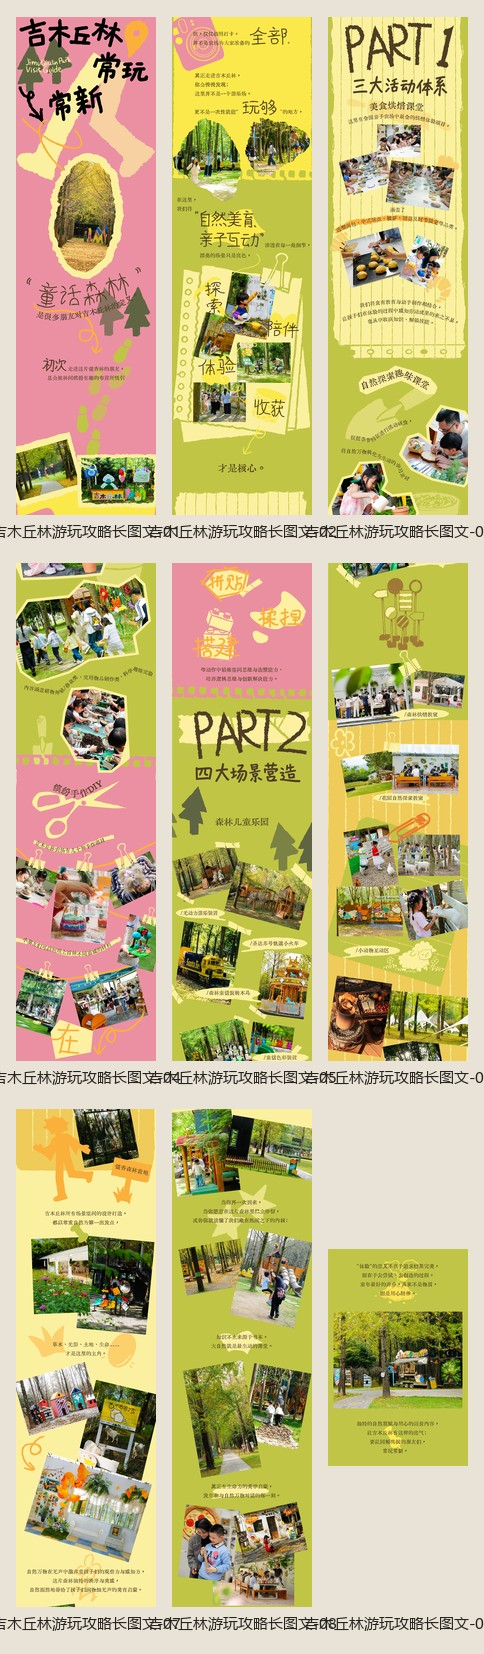
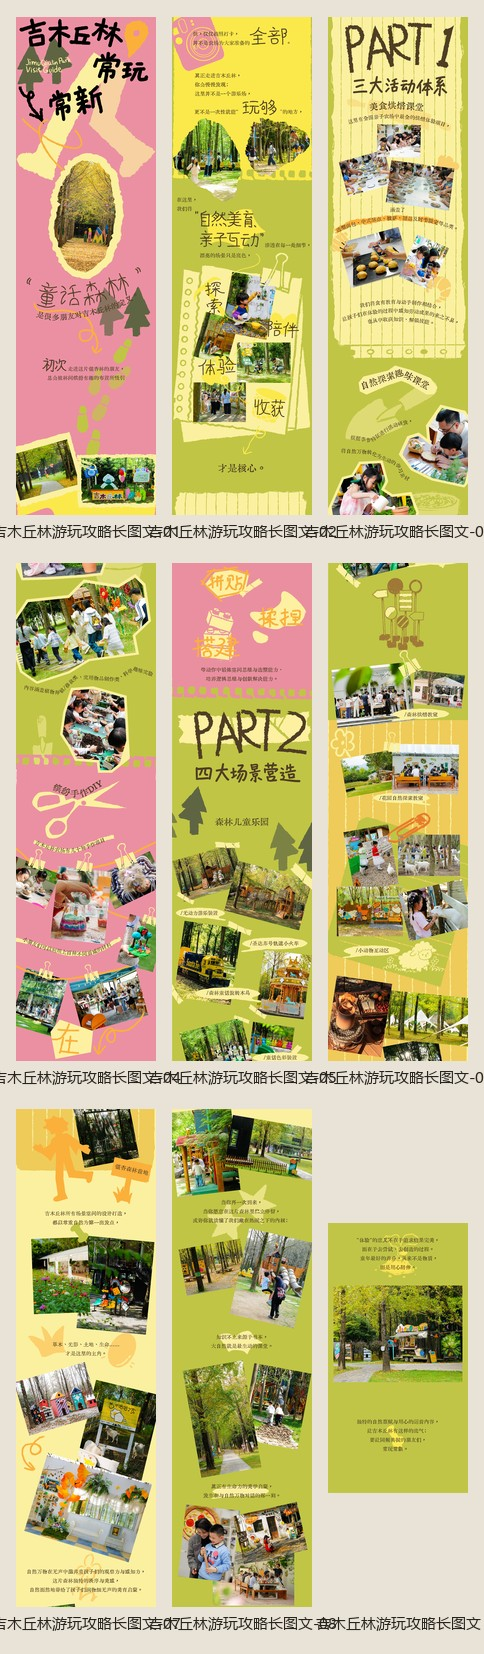
Replace final play guide page

Changed region(s): [[0.6818, 0.74, 0.9917, 0.925], [0.6508, 0.9559, 1.0, 0.9867]]

diff --git a/index.html b/index.html
@@ -34,13 +34,13 @@
   <header>
     <div class="brand"><strong>吉木丘林 · 游玩攻略</strong><span>9 张连续长图 · 建议上下滑动阅读</span></div>
     <div class="actions">
-      <a href="./assets/guide-long-web.jpg?v=20261113-160414" target="_blank" rel="noopener">查看长图</a>
-      <a href="./assets/guide-long-web.jpg?v=20261113-160414" download>下载长图</a>
+      <a href="./assets/guide-long-web.jpg?v=20261113-161114" target="_blank" rel="noopener">查看长图</a>
+      <a href="./assets/guide-long-web.jpg?v=20261113-161114" download>下载长图</a>
     </div>
   </header>
   <main>
-    <div class="stage" id="stage"><img id="longImage" src="./assets/guide-long-web.jpg?v=20261113-160414" alt="吉木丘林游玩攻略连续长图"></div>
-    <p class="tip">共 9 页，已按文件名顺序无缝拼接<br>1,080 × 32,389 px 网页版长图<br>更新于 2026-11-13 16:04</p>
+    <div class="stage" id="stage"><img id="longImage" src="./assets/guide-long-web.jpg?v=20261113-161114" alt="吉木丘林游玩攻略连续长图"></div>
+    <p class="tip">共 9 页，已按文件名顺序无缝拼接<br>1,080 × 32,800 px 网页版长图<br>更新于 2026-11-13 16:11</p>
   </main>
   <div class="zoom" aria-label="缩放控制">
     <button type="button" id="minus" aria-label="缩小">−</button>
